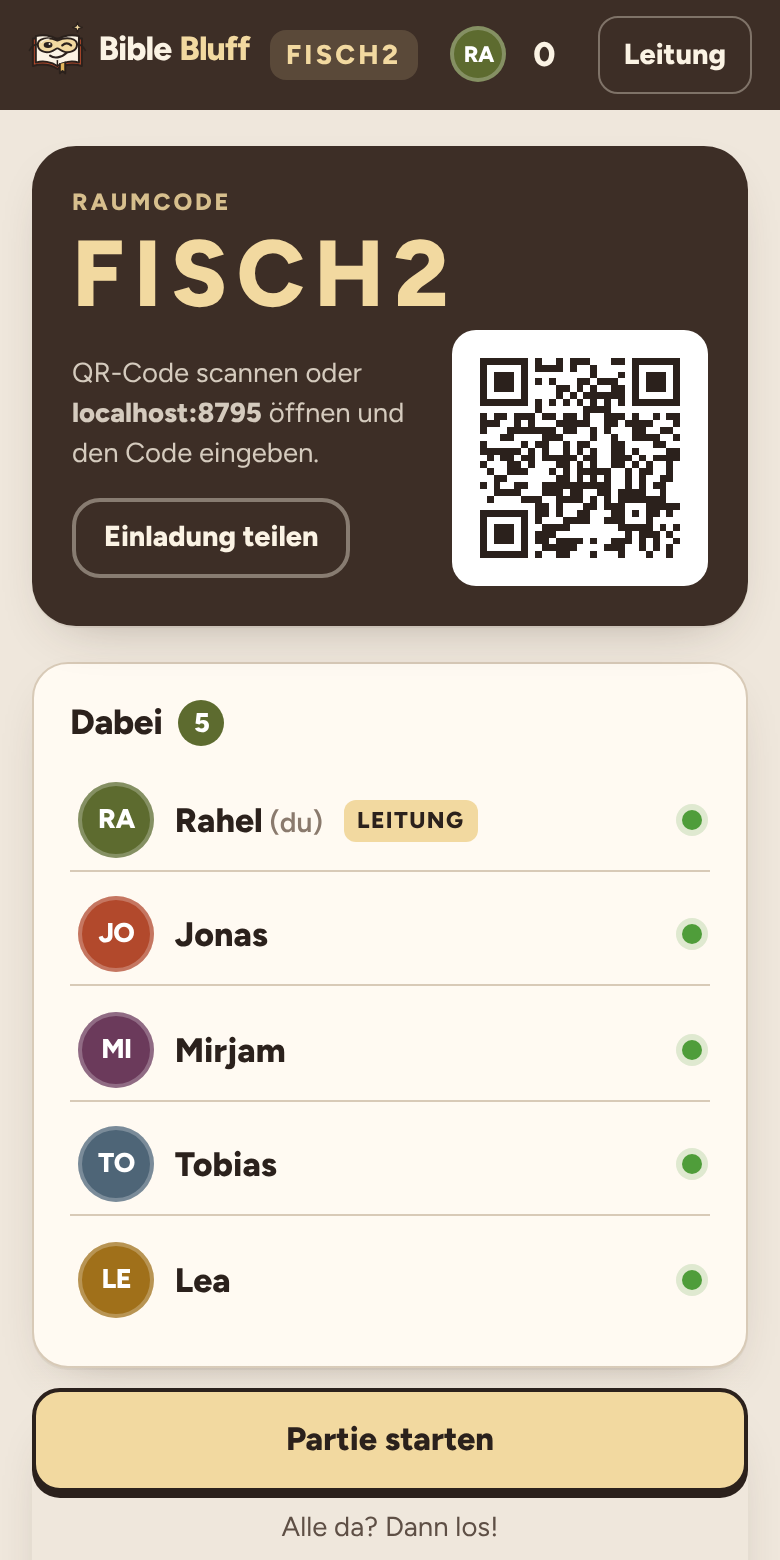
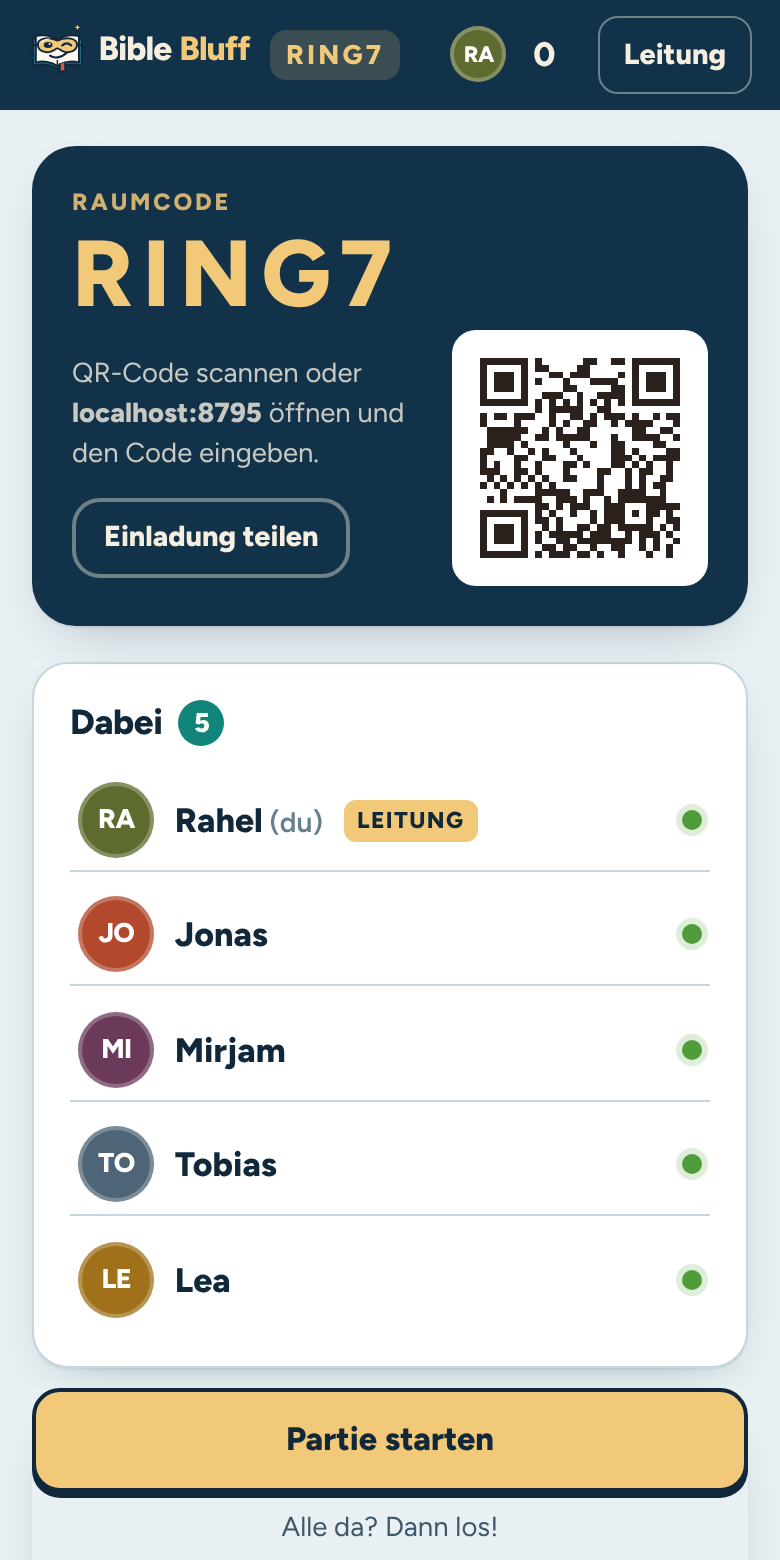
See Genezareth als Standard-Farbkonzept, Farbhinweise entfernt
- Wer noch nichts gewählt hat, sieht See Genezareth; es steht in der
  Auswahl an erster Stelle. Lernblatt bleibt die CSS-Basis in :root
  (BASE_THEME) und folgt weiter Hell/Dunkel des Geräts.
- Vorab-Skript, theme-color und Manifest nutzen die neuen Standardfarben.
- Die Beschreibungstexte der Farbkonzepte und der Hinweis „gilt nur auf
  diesem Gerät“ sind weg; im Menü heißt der Abschnitt nur noch „Farben“.
- README und Screenshots zeigen den neuen Standard.

Claude-Session: https://claude.ai/code/session_012LrU7HgcMJ3z8QB7JTPSd1

diff --git a/src/client/lib/theme.ts b/src/client/lib/theme.ts
@@ -2,15 +2,17 @@
 // Die Farben stehen in styles.css (html[data-theme]); hier stehen Namen, Vorschaufarben und die Umschaltung.
 import { useEffect, useState } from 'preact/hooks';
 
-export const THEME_IDS = ['lernblatt', 'nacht', 'spieltisch', 'comic', 'see', 'klar'] as const;
+export const THEME_IDS = ['see', 'lernblatt', 'nacht', 'spieltisch', 'comic', 'klar'] as const;
 export type ThemeId = (typeof THEME_IDS)[number];
 
-export const DEFAULT_THEME: ThemeId = 'lernblatt';
+/** Wer noch nichts gewählt hat, sieht See Genezareth. */
+export const DEFAULT_THEME: ThemeId = 'see';
+/** Lernblatt steht direkt in :root (styles.css) und braucht kein data-theme. */
+export const BASE_THEME: ThemeId = 'lernblatt';
 
 export interface ThemeInfo {
   id: ThemeId;
   name: string;
-  text: string;
   /** Vorschau: Leiste, Papier, zwei Akzente */
   preview: [string, string, string, string];
   /** Farbe der Browserleiste (meta theme-color) */
@@ -19,44 +21,38 @@ export interface ThemeInfo {
 
 export const THEMES: ThemeInfo[] = [
   {
+    id: 'see',
+    name: 'See Genezareth',
+    preview: ['#12324a', '#e8f0f3', '#f2c879', '#12857a'],
+    bar: '#12324a',
+  },
+  {
     id: 'lernblatt',
     name: 'Lernblatt',
-    text: 'Warmes Papier, Dunkelbraun und Gold. Hell oder dunkel wie dein Gerät.',
     preview: ['#3d2e26', '#efe7dc', '#f2d9a0', '#b2492c'],
     bar: '#3d2e26',
   },
   {
     id: 'nacht',
     name: 'Nachtquiz',
-    text: 'Dunkel mit Neonfarben wie in einer Quizshow. Stark auf dem Beamer.',
     preview: ['#0b0520', '#140a33', '#ff3ea5', '#29e3ef'],
     bar: '#0b0520',
   },
   {
     id: 'spieltisch',
     name: 'Spieltisch',
-    text: 'Filzgrün, Kartenrot und Chipgold auf hellem Leinen.',
     preview: ['#1b5e40', '#ebe5d3', '#f1c24b', '#c8322b'],
     bar: '#1b5e40',
   },
   {
     id: 'comic',
     name: 'Comic',
-    text: 'Sonnengelb, Schwarz und Pink mit harten Schatten.',
     preview: ['#161616', '#ffd93d', '#ff4f9a', '#3d7bff'],
     bar: '#161616',
   },
   {
-    id: 'see',
-    name: 'See Genezareth',
-    text: 'Tiefes Blau, Türkis und Sand. Frisch und ruhig.',
-    preview: ['#12324a', '#e8f0f3', '#f2c879', '#12857a'],
-    bar: '#12324a',
-  },
-  {
     id: 'klar',
     name: 'Klar',
-    text: 'Viel Weiß, Indigo und Koralle. Schlicht und gut lesbar.',
     preview: ['#4338ca', '#f4f5fa', '#ffd166', '#ef4f3c'],
     bar: '#4338ca',
   },
@@ -97,7 +93,7 @@ const listeners = new Set<(id: ThemeId) => void>();
 function apply(id: ThemeId) {
   current = id;
   const root = document.documentElement;
-  if (id === DEFAULT_THEME) root.removeAttribute('data-theme');
+  if (id === BASE_THEME) root.removeAttribute('data-theme');
   else root.setAttribute('data-theme', id);
   document.querySelector('meta[name="theme-color"]')?.setAttribute('content', themeInfo(id).bar);
 }

diff --git a/tests/theme.test.ts b/tests/theme.test.ts
@@ -1,26 +1,28 @@
 import { readFileSync } from 'node:fs';
 import { describe, expect, it } from 'vitest';
-import { DEFAULT_THEME, THEMES, THEME_IDS, isThemeId } from '../src/client/lib/theme';
+import { BASE_THEME, DEFAULT_THEME, THEMES, THEME_IDS, isThemeId } from '../src/client/lib/theme';
 
 const css = readFileSync(new URL('../src/client/styles.css', import.meta.url), 'utf8');
 const index = readFileSync(new URL('../src/client/index.html', import.meta.url), 'utf8');
 
 describe('Farbkonzepte', () => {
-  it('beschreibt jede ID genau einmal, mit Lernblatt als Standard', () => {
+  it('beschreibt jede ID genau einmal, mit See Genezareth als Standard', () => {
     expect(THEMES.map((t) => t.id)).toEqual([...THEME_IDS]);
-    expect(DEFAULT_THEME).toBe('lernblatt');
+    expect(DEFAULT_THEME).toBe('see');
+    expect(THEMES[0].id).toBe(DEFAULT_THEME);
+    expect(BASE_THEME).toBe('lernblatt');
     expect(THEME_IDS).toHaveLength(6);
   });
 
-  it('hat für jedes weitere Konzept einen Farbblock im Stylesheet', () => {
-    for (const id of THEME_IDS.filter((t) => t !== DEFAULT_THEME)) {
+  it('hat für jedes Konzept außer der Lernblatt-Basis einen Farbblock im Stylesheet', () => {
+    for (const id of THEME_IDS.filter((t) => t !== BASE_THEME)) {
       expect(css, id).toContain(`:root[data-theme='${id}'] {`);
     }
   });
 
   it('setzt in jedem Block dieselben Grundfarben', () => {
     const required = ['--paper', '--card', '--ink', '--line', '--brown', '--cream', '--gold', '--olive', '--rust', '--g-nt', '--logo-cover'];
-    for (const id of THEME_IDS.filter((t) => t !== DEFAULT_THEME)) {
+    for (const id of THEME_IDS.filter((t) => t !== BASE_THEME)) {
       const block = css.split(`:root[data-theme='${id}'] {`)[1].split('}')[0];
       for (const name of required) expect(block, `${id} ${name}`).toContain(`${name}:`);
     }
@@ -33,8 +35,10 @@ describe('Farbkonzepte', () => {
     expect(isThemeId(null)).toBe(false);
   });
 
-  it('nutzt im Vorab-Skript denselben Speicherschlüssel und Link-Parameter', () => {
+  it('nutzt im Vorab-Skript denselben Speicherschlüssel, Link-Parameter und Standard', () => {
     expect(index).toContain("localStorage.getItem('bible-bluff:v1:theme')");
     expect(index).toContain(".get('farbe')");
+    expect(index).toContain(`var t = '${DEFAULT_THEME}';`);
+    expect(index).toContain(`t !== '${BASE_THEME}'`);
   });
 });

diff --git a/src/client/styles.css b/src/client/styles.css
@@ -1,8 +1,8 @@
 /* Bible Bluff – Gestaltung angelehnt an die NT-Lernblätter:
    warmes Papier, Dunkelbraun, Gold und die Farben der Buchgruppen.
 
-   Farbkonzepte: Alle Farben laufen über die Variablen in :root. Die Namen stammen aus dem
-   Lernblatt-Standard, stehen aber für Rollen: --brown ist die dunkle Leiste (Kopfzeile,
+   Farbkonzepte: Alle Farben laufen über die Variablen in :root (Lernblatt). Die Namen stammen aus
+   dem Lernblatt, stehen aber für Rollen: --brown ist die dunkle Leiste (Kopfzeile,
    Hero, Raumcode-Karte), --cream die Schrift darauf, --gold der Akzent, --olive „richtig“,
    --rust „Bluff“. Die weiteren Konzepte (html[data-theme]) stehen am Ende der Datei. */
 
@@ -79,7 +79,8 @@
   color-scheme: light;
 }
 
-/* Lernblatt folgt der Systemeinstellung; die anderen Farbkonzepte sind fest hell oder dunkel. */
+/* Lernblatt folgt der Systemeinstellung; die anderen Farbkonzepte sind fest hell oder dunkel.
+   Standard für neue Geräte ist See Genezareth (lib/theme.ts). */
 @media (prefers-color-scheme: dark) {
   :root:not([data-theme]) {
     --paper: #1b1512;
@@ -856,20 +857,10 @@ textarea {
   box-shadow: 0 0 0 2px var(--sw-paper);
 }
 
-.theme-hint {
-  margin: -4px 0 12px;
-}
-
 .theme-name {
   font-weight: 800;
   font-size: 0.95rem;
   line-height: 1.15;
-}
-
-.theme-text {
-  font-size: 0.8rem;
-  line-height: 1.3;
-  color: var(--ink-2);
 }
 
 /* ───────── Spielrahmen ───────── */
@@ -2601,7 +2592,7 @@ html.tv-mode body {
 }
 
 /* ───────── Farbkonzepte ─────────
-   Lernblatt ist der Standard oben in :root. Jedes weitere Konzept setzt nur Variablen;
+   Lernblatt steht oben in :root; Standard für neue Geräte ist See Genezareth. Jedes weitere Konzept setzt nur Variablen;
    die Auswahl steht in lib/theme.ts. */
 
 :root[data-theme='nacht'] {

diff --git a/src/client/index.html b/src/client/index.html
@@ -3,7 +3,7 @@
   <head>
     <meta charset="utf-8" />
     <meta name="viewport" content="width=device-width, initial-scale=1, viewport-fit=cover" />
-    <meta name="theme-color" content="#3d2e26" />
+    <meta name="theme-color" content="#12324a" />
     <meta name="description" content="Bible Bluff – das Partyspiel fürs Handy: Bluffs erfinden, die Wahrheit finden, die Bibel entdecken." />
     <meta name="apple-mobile-web-app-capable" content="yes" />
     <meta name="apple-mobile-web-app-title" content="Bible Bluff" />
@@ -13,11 +13,13 @@
     <link rel="manifest" href="/manifest.webmanifest" />
     <title>Bible Bluff</title>
     <script>
-      // Farbkonzept vor dem ersten Bild setzen, damit nichts aufblitzt (Prüfung und Rest: lib/theme.ts)
+      // Farbkonzept vor dem ersten Bild setzen, damit nichts aufblitzt (Prüfung und Rest: lib/theme.ts).
+      // Ohne Wahl gilt See Genezareth; Lernblatt braucht kein data-theme.
+      var t = 'see';
       try {
-        var t = new URLSearchParams(location.search).get('farbe') || localStorage.getItem('bible-bluff:v1:theme');
-        if (t && t !== 'lernblatt') document.documentElement.setAttribute('data-theme', t);
+        t = new URLSearchParams(location.search).get('farbe') || localStorage.getItem('bible-bluff:v1:theme') || t;
       } catch (e) {}
+      if (t !== 'lernblatt') document.documentElement.setAttribute('data-theme', t);
     </script>
   </head>
   <body>

diff --git a/src/client/components/ThemePicker.tsx b/src/client/components/ThemePicker.tsx
@@ -22,7 +22,6 @@ export function ThemePicker({ compact = false }: { compact?: boolean }) {
               <i />
             </span>
             <span class="theme-name">{t.name}</span>
-            {!compact && <span class="theme-text">{t.text}</span>}
           </button>
         );
       })}

diff --git a/src/client/screens/Room.tsx b/src/client/screens/Room.tsx
@@ -352,7 +352,7 @@ function Panel({ view, conn, onClose }: { view: RoomView; conn: RoomConnection; 
         </section>
 
         <section class="sheet-section">
-          <h3>Farben auf diesem Gerät</h3>
+          <h3>Farben</h3>
           <ThemePicker compact />
         </section>
 

diff --git a/src/client/screens/Start.tsx b/src/client/screens/Start.tsx
@@ -63,7 +63,6 @@ export function Home() {
 
       <section class="card">
         <h2>Farben</h2>
-        <p class="muted small theme-hint">Wähle dein Farbkonzept. Es gilt nur auf diesem Gerät.</p>
         <ThemePicker />
       </section>
 

diff --git a/README.md b/README.md
@@ -122,22 +122,22 @@ Räume werden 24 Stunden nach der letzten Änderung gelöscht.
 
 ### Farben
 
-Jede Person wählt auf der Startseite oder im Menü ihr eigenes Farbkonzept. Die Wahl gilt nur auf diesem Gerät und bleibt gespeichert.
+Jede Person wählt auf der Startseite oder im Menü ihr eigenes Farbkonzept. Die Wahl gilt nur auf diesem Gerät und bleibt gespeichert. Wer nichts wählt, sieht See Genezareth.
 
 | Farbkonzept | Wirkung |
 | --- | --- |
-| Lernblatt (Standard) | Warmes Papier, Dunkelbraun und Gold wie die Lernblätter. Folgt Hell und Dunkel des Geräts. |
+| See Genezareth (Standard) | Tiefes Blau, Türkis und Sand. |
+| Lernblatt | Warmes Papier, Dunkelbraun und Gold wie die Lernblätter. Folgt Hell und Dunkel des Geräts. |
 | Nachtquiz | Dunkel mit Neonfarben wie in einer Quizshow. Am stärksten auf dem Beamer im abgedunkelten Raum. |
 | Spieltisch | Filzgrün, Kartenrot und Chipgold auf hellem Leinen. |
 | Comic | Sonnengelb, Schwarz und Pink mit harten Schatten. |
-| See Genezareth | Tiefes Blau, Türkis und Sand. |
 | Klar | Viel Weiß, Indigo und Koralle. Schlicht und gut lesbar. |
 
 Der Link „Leinwand-Ansicht öffnen“ nimmt das Farbkonzept der Spielleitung mit (`/tv/RAUMCODE?farbe=nacht`).
 
 ![Die sechs Farbkonzepte beim Abstimmen](docs/screenshots/farben.png)
 
-Technisch setzt jedes Konzept nur CSS-Variablen (`html[data-theme]` am Ende von `src/client/styles.css`); Namen und Vorschaufarben stehen in `src/client/lib/theme.ts`.
+Technisch setzt jedes Konzept nur CSS-Variablen (`html[data-theme]` am Ende von `src/client/styles.css`). Lernblatt steht direkt in `:root` und braucht kein `data-theme`. Namen, Vorschaufarben und der Standard stehen in `src/client/lib/theme.ts`.
 
 ## Logo
 
